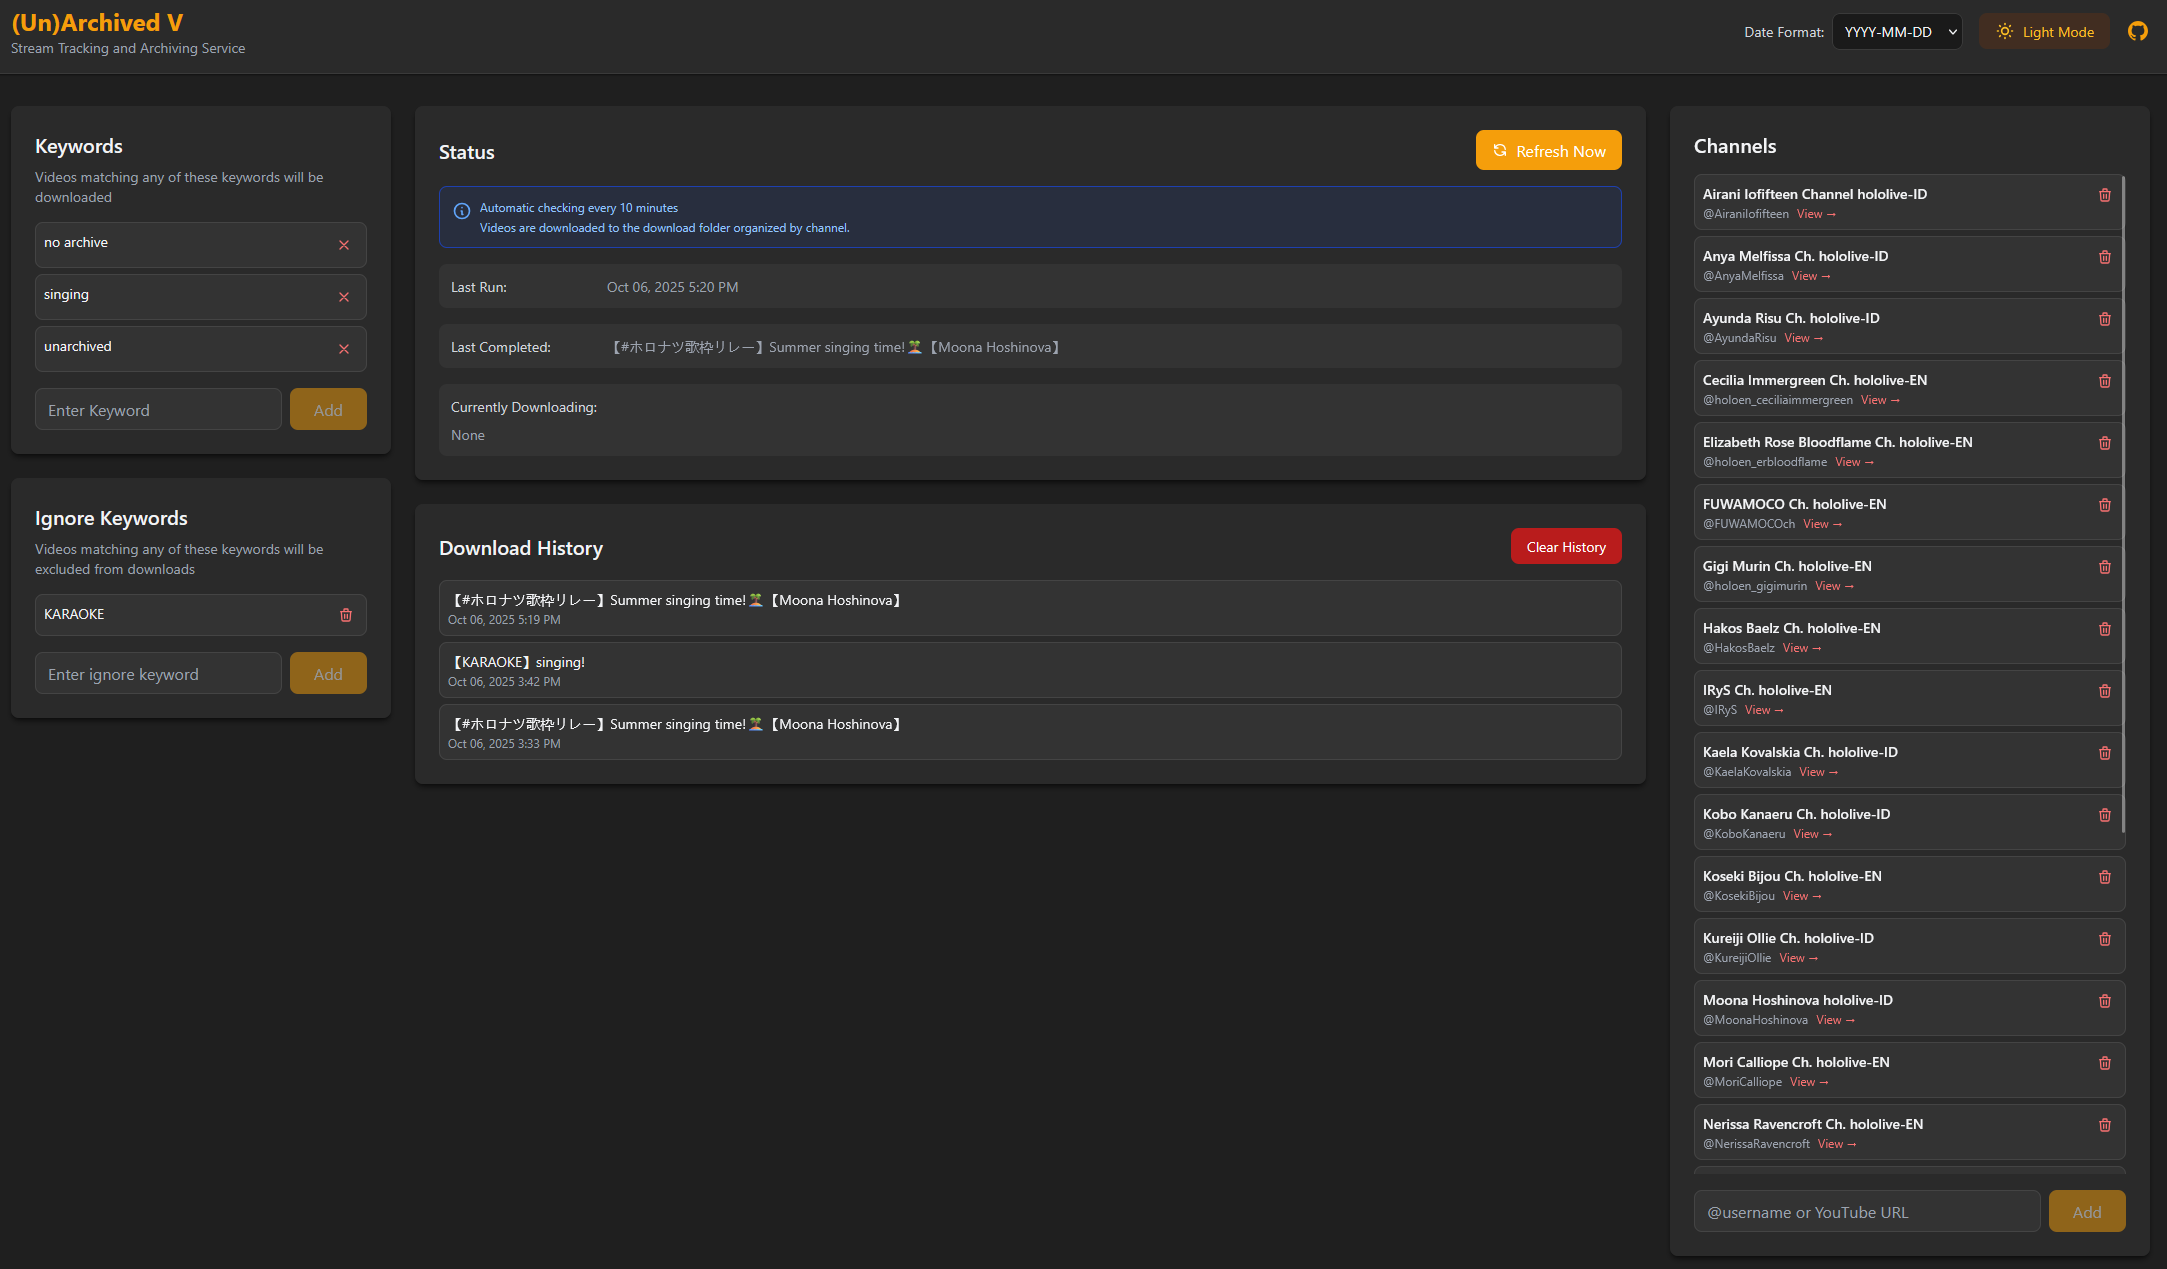
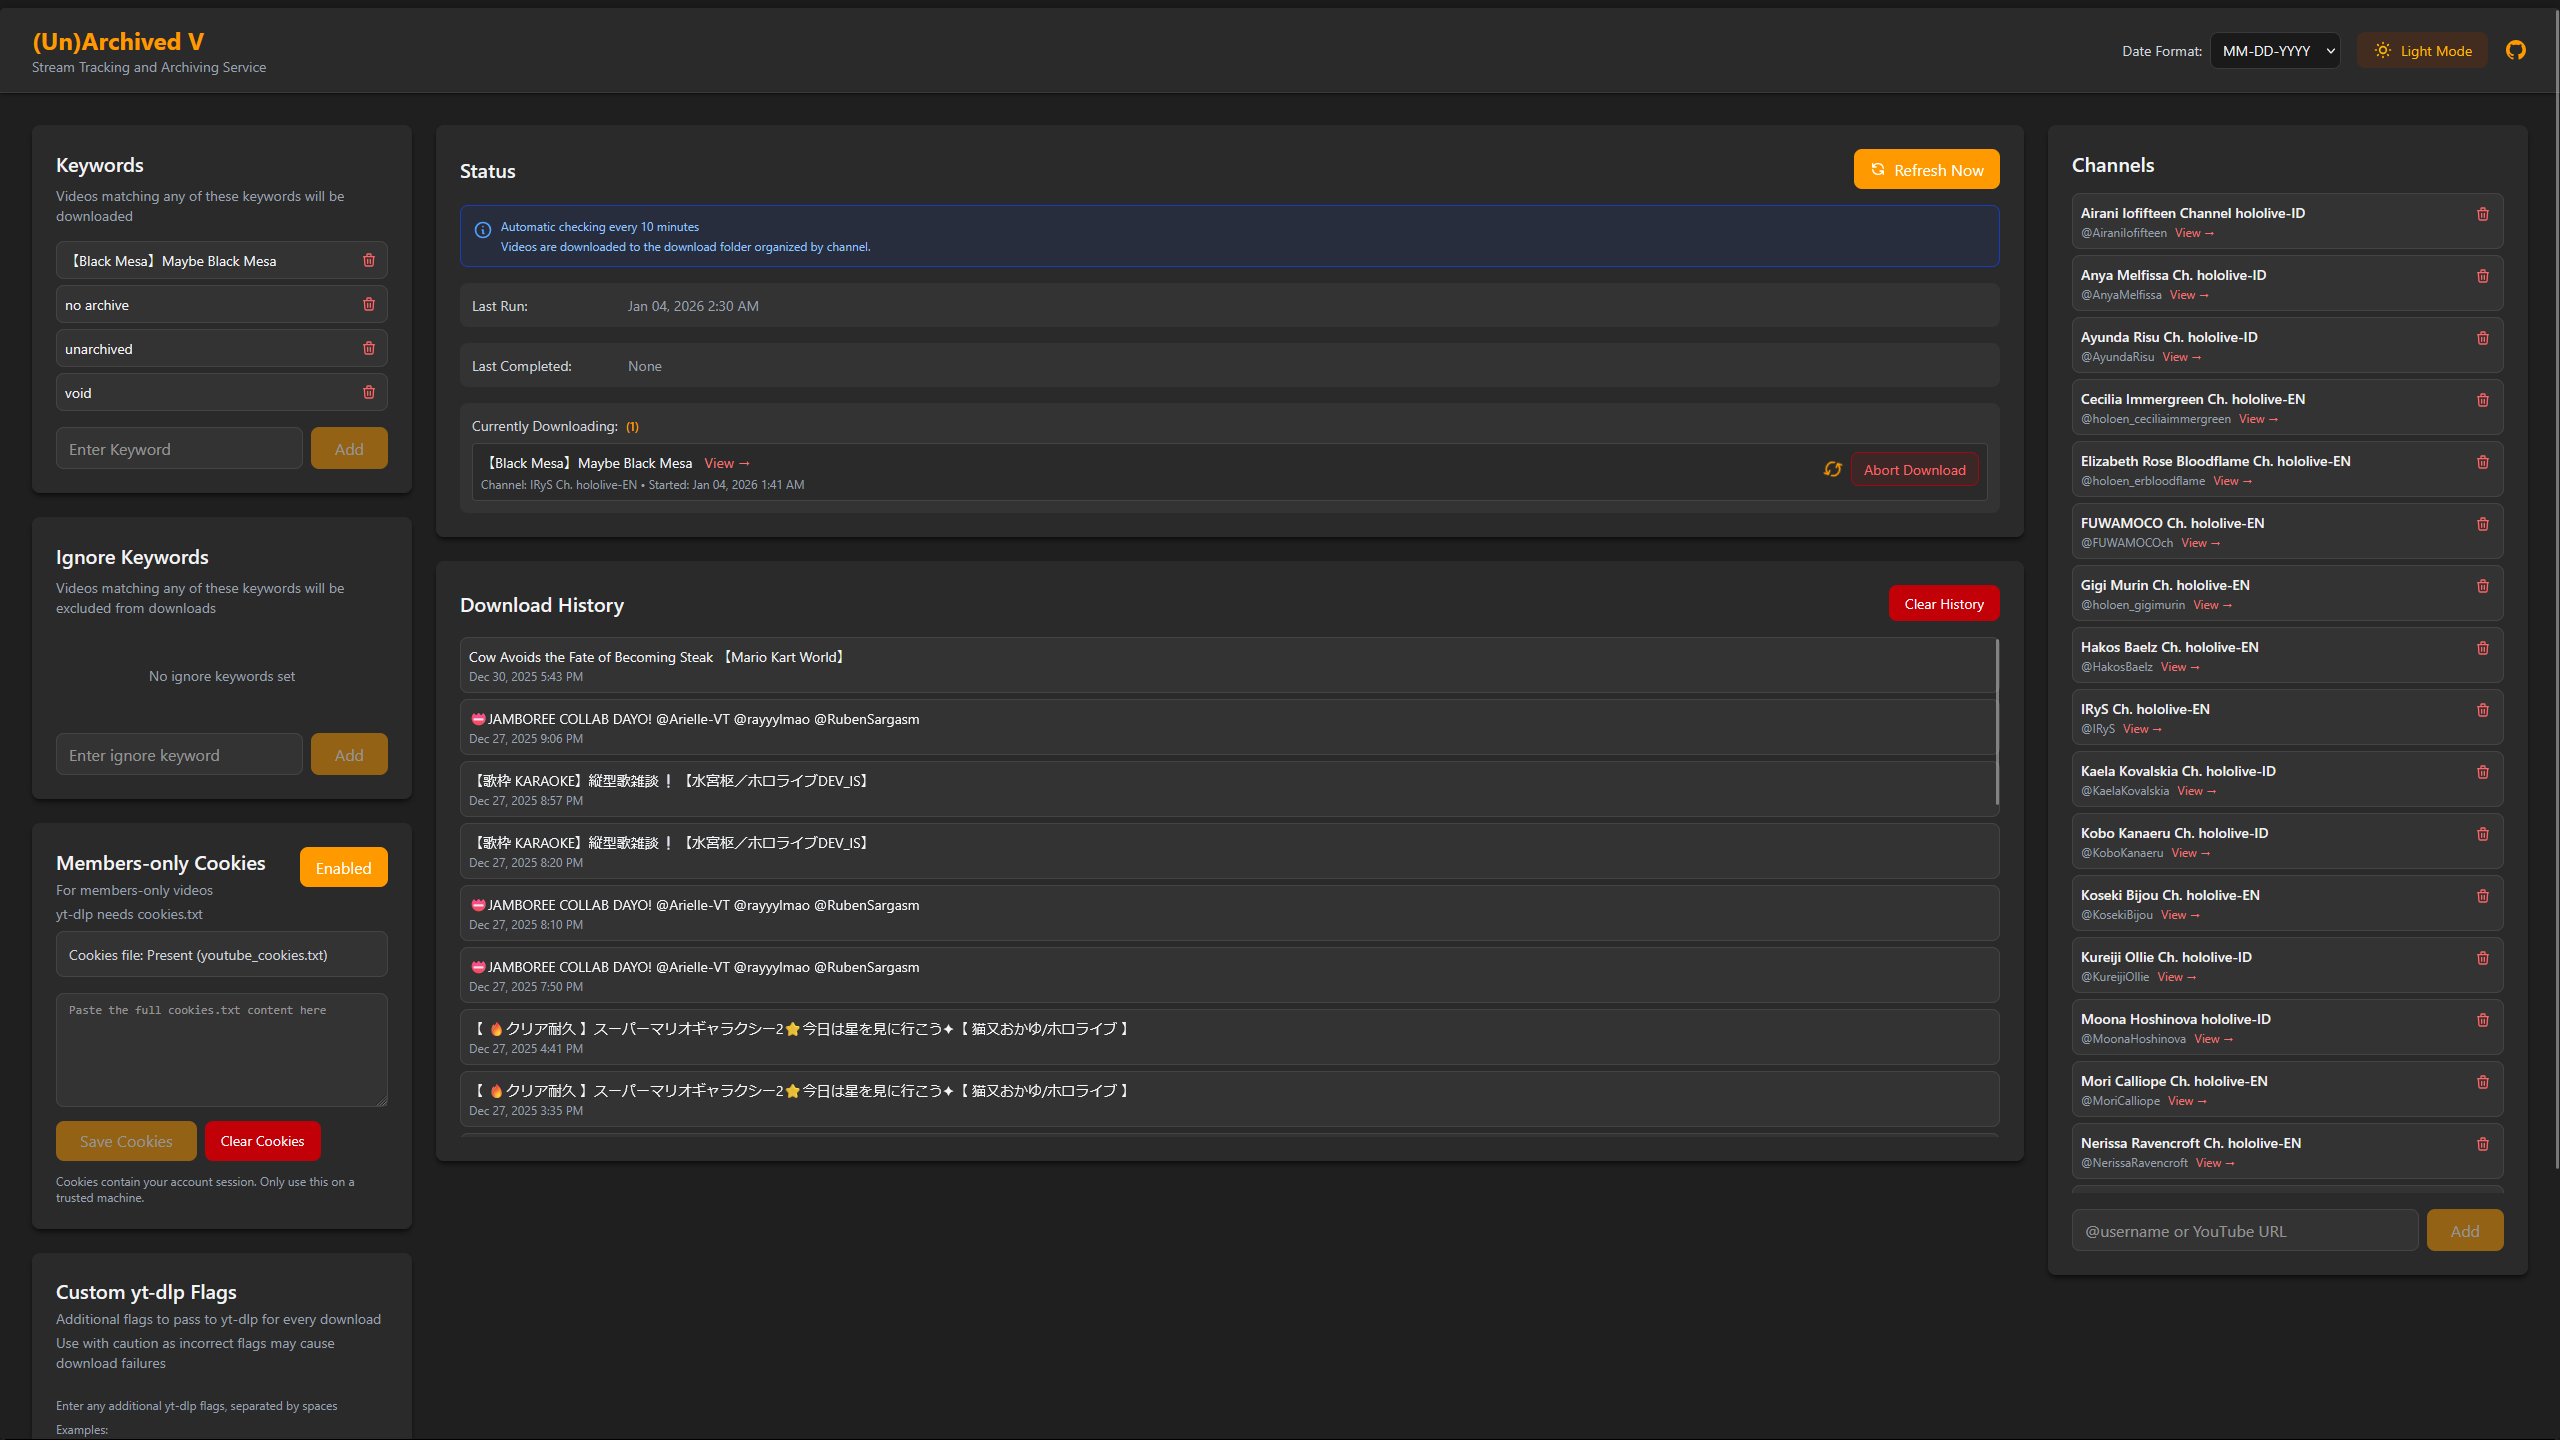
doc: update screenshot and expend feature readme

diff --git a/README.md b/README.md
@@ -14,8 +14,11 @@ The purpose of this project is to save Vtuber singing streams where often are un
 
 1. Automatically check subscribed channels for new live streams.
 2. Download matching videos based on a specified keyword list.
-3. Send notifications via Pushover.
-4. Manage channels and keywords via the web interface.
+3. Manage channels and keywords via the web interface.
+4. Fail safe Auto merger by ffmpeg to combine temperary files when stream end turned to private before yt-dlp can finalize the file.
+5. Send notifications via Pushover.
+6. Support members-only/private videos using cookies.
+7. Custom yt-dlp options for advanced users.
 
 
 ## Screenshot
@@ -69,6 +72,43 @@ services:
     #   - net.ipv6.conf.all.disable_ipv6=1
 ```
 
+
+## Web Interface
+
+Access the web interface at `http://<host_ip>:3000`
+
+
+
+## Data Persistence
+
+Bind mounts to preserve data:
+
+- **Configurations**: `/app/data/db.json`
+- **Downloaded Videos**: `/app/download/<channel_username>/[DateTime] <video_title>/`
+- **Cookies (optional)**: `/app/data/youtube_cookies.txt`
+
+
+
+## Scheduling
+
+A cron job runs every 10 minutes to check for new live streams.
+
+
+
+## Notifications (Optional)
+
+[Pushover](https://pushover.net/) is used to send mobile/desktop notifications on each successful download.
+
+
+
+## Folder Permissions
+
+It is recommended to run the container with a non-root user. The default user ID is `1000`.
+
+Change to the user ID of your host system if necessary. You can do this by modifying the `user` field in the Docker Compose file.
+
+
+
 ## Members-only / Private Videos (Cookies)
 
 Some videos (members-only, private, age-restricted) cannot be downloaded by `yt-dlp` without authentication.
@@ -92,31 +132,18 @@ After cookies are saved/enabled, the service can download members-only/private v
 
 Security note: `cookies.txt` contains your account session. Only use this on a trusted machine.
 
-## Web Interface
 
-Access the web interface at `http://<host_ip>:3000`
 
-## Data Persistence
+## Custom YT-DLP Options
 
-Bind mounts to preserve data:
+You can append custom `yt-dlp` options in the web interface, the same way as you would run `yt-dlp` from the command line.
 
-- **Configurations**: `/app/data/db.json`
-- **Downloaded Videos**: `/app/download/<channel_username>/[DateTime] <video_title>/`
-- **Cookies (optional)**: `/app/data/youtube_cookies.txt`
+Refer to the [yt-dlp documentation](https://github.com/yt-dlp/yt-dlp?tab=readme-ov-file#usage-and-options) for available options.
 
-## Scheduling
+Using custom options may affect the download behavior. Use with caution.
 
-A cron job runs every 10 minutes to check for new live streams.
 
-## Notifications (Optional)
 
-[Pushover](https://pushover.net/) is used to send mobile/desktop notifications on each successful download.
-
-## Folder Permissions
-
-It is recommended to run the container with a non-root user. The default user ID is `1000`.
-
-Change to the user ID of your host system if necessary. You can do this by modifying the `user` field in the Docker Compose file.
 
 ## Potential Issues
 
@@ -128,6 +155,8 @@ Change to the user ID of your host system if necessary. You can do this by modif
 	```
 
 - Axios need ipv4 to work properly. Force ipv4 dns resolution by adding the following to your docker compose file:
+  
+	> Docker Compose Example
 	```yaml
 	sysctls:
 	- net.ipv6.conf.all.disable_ipv6=1
